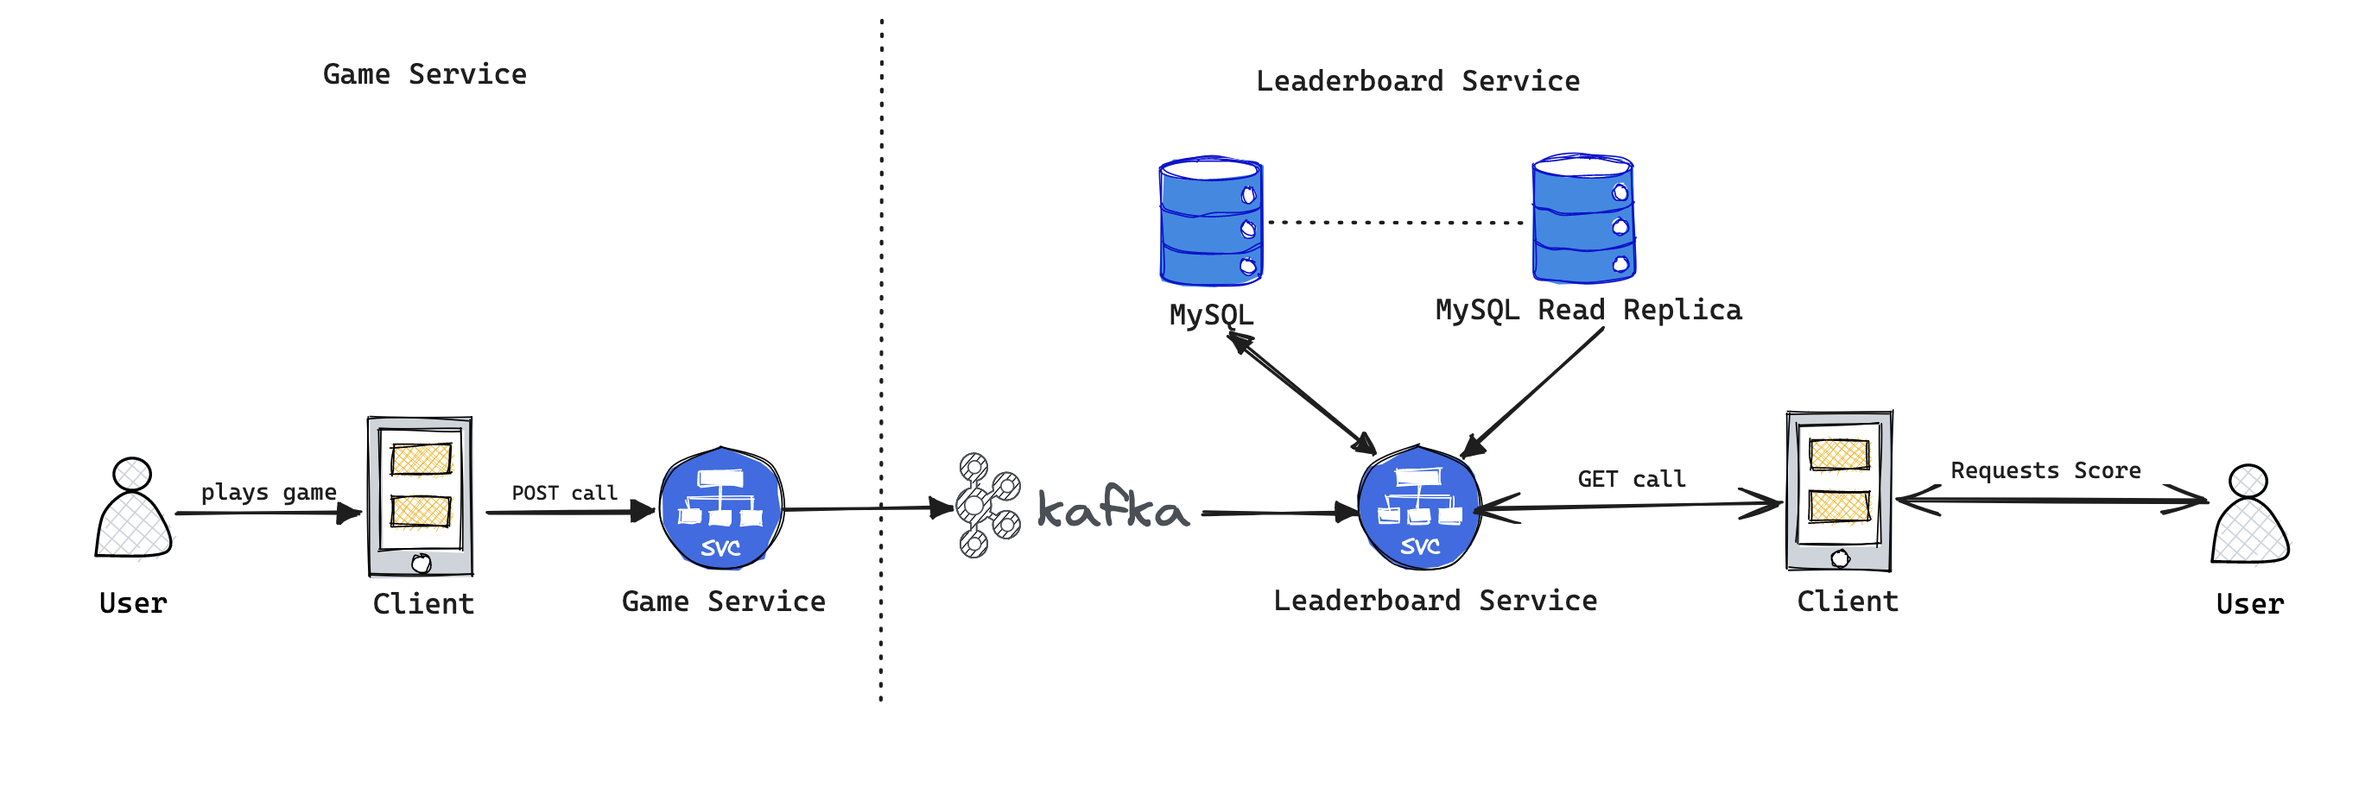
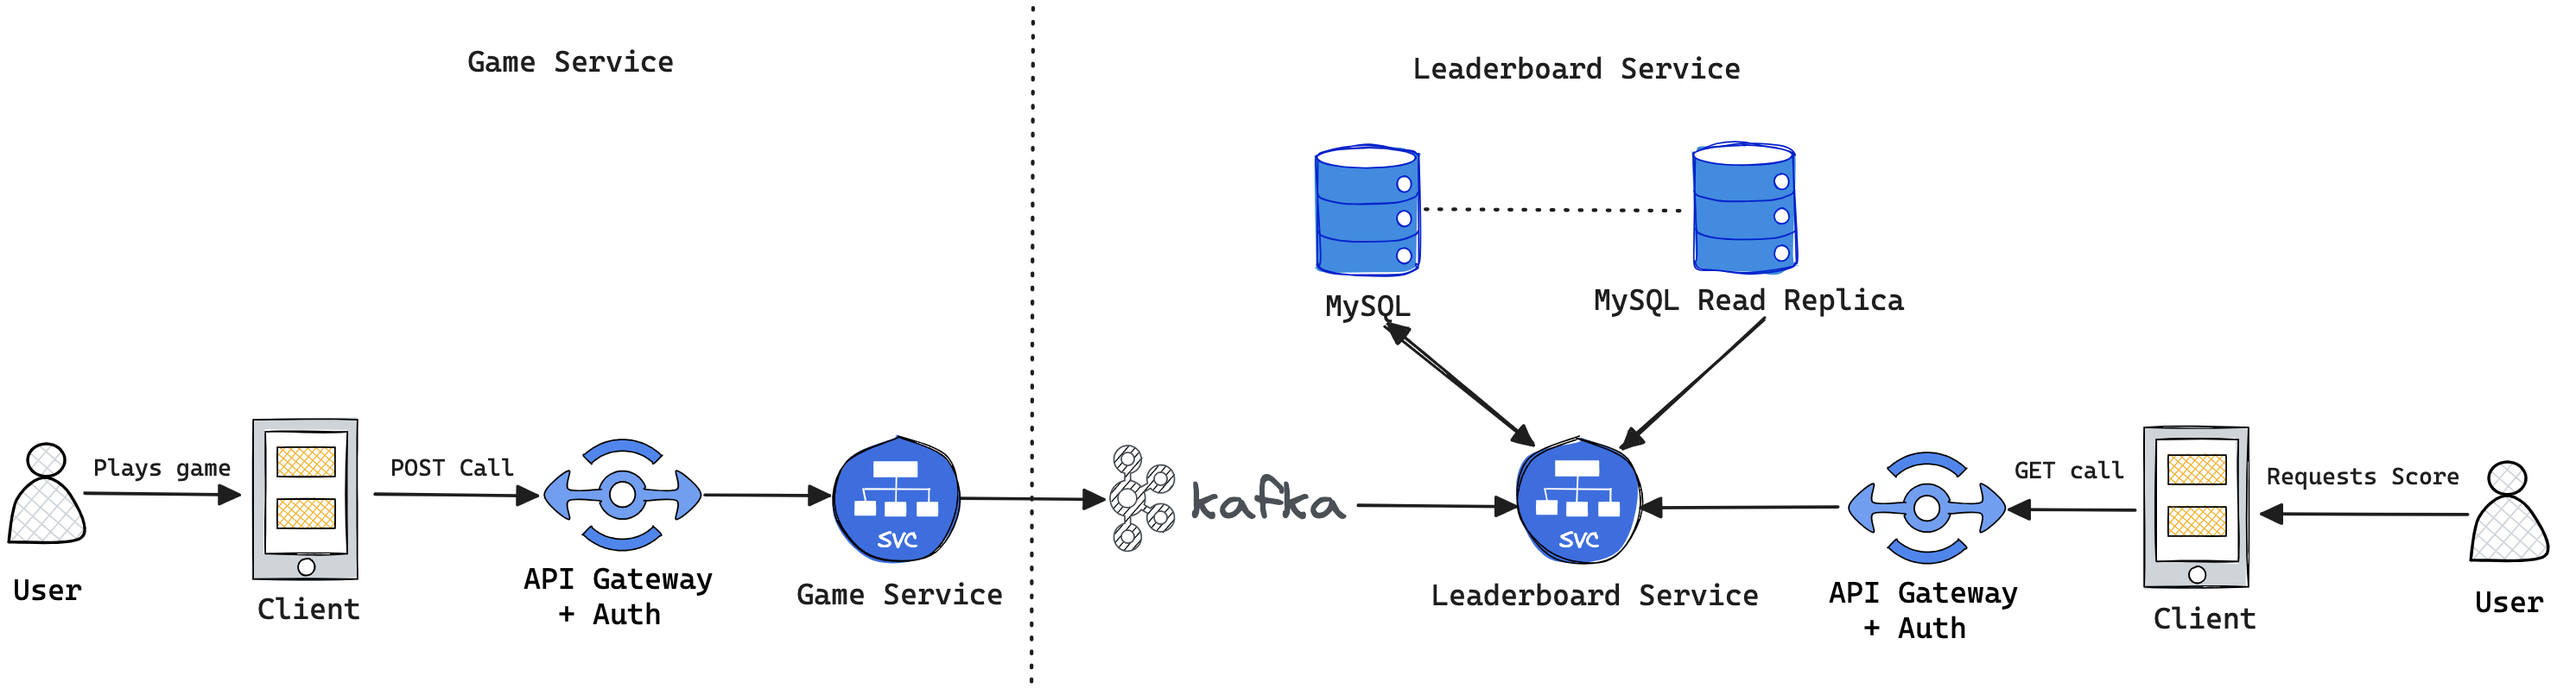
update images of approaches + add flow diagram

diff --git a/README.md b/README.md
@@ -13,6 +13,7 @@ As players complete games, the game service publishes their scores to a designat
   - [Redis Sorted Set](#alternate-approach-1-redis-sorted-set)
   - [DB Read Replica](#alternate-approach-2-db-read-replica)
   - [Pod Local Cache](#alternate-approach-3-pod-local-cache)
+- [Flow Diagrams](#flow-diagrams)
 - [API Contracts](#api-contracts)
 - [DB Schema](#db-schema)
 - [Local Development](#local-development)
@@ -37,6 +38,16 @@ As players complete games, the game service publishes their scores to a designat
 ### Alternate Approach 3 (Pod Local Cache)
 
 ![Alternate-Approach-Pod-Local-Cache](./assets/image/alternate_approach_pod_local_cache.png)
+
+## Flow Diagrams
+
+### Consume events from Kafka
+
+![Consume-events-from-kafka](./assets/image/consume-from-kafka.png)
+
+### Retrieve Top n Scorers
+
+![Retrieve-Top-n-Scorers](./assets/image/retrieve-top-n-scorers.png)
 
 ## API Contracts
 

diff --git a/CHANGELOG.md b/CHANGELOG.md
@@ -7,6 +7,10 @@ and this project adheres to [Semantic Versioning](https://semver.org/spec/v2.0.0
 
 ## [Unreleased]
 
+## [0.5.3] - 2023-10-29
+
+- Update images of approaches + add flow diagram
+
 ## [0.5.2] - 2023-10-29
 
 - Setup github action to run tests + generate coverage report on PRs
